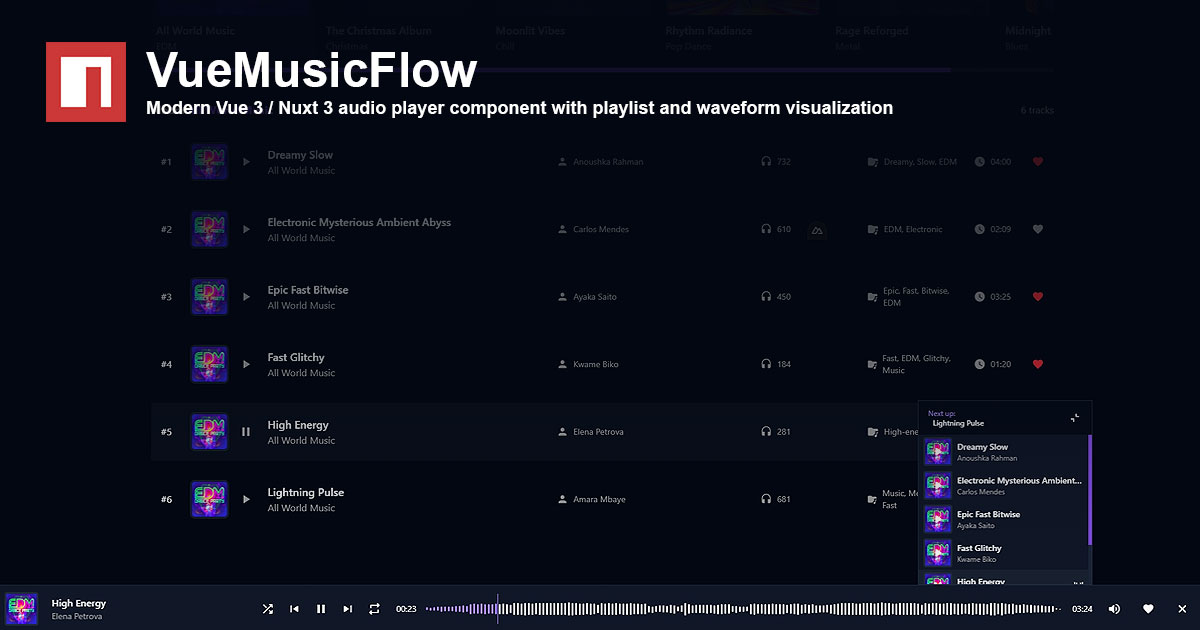
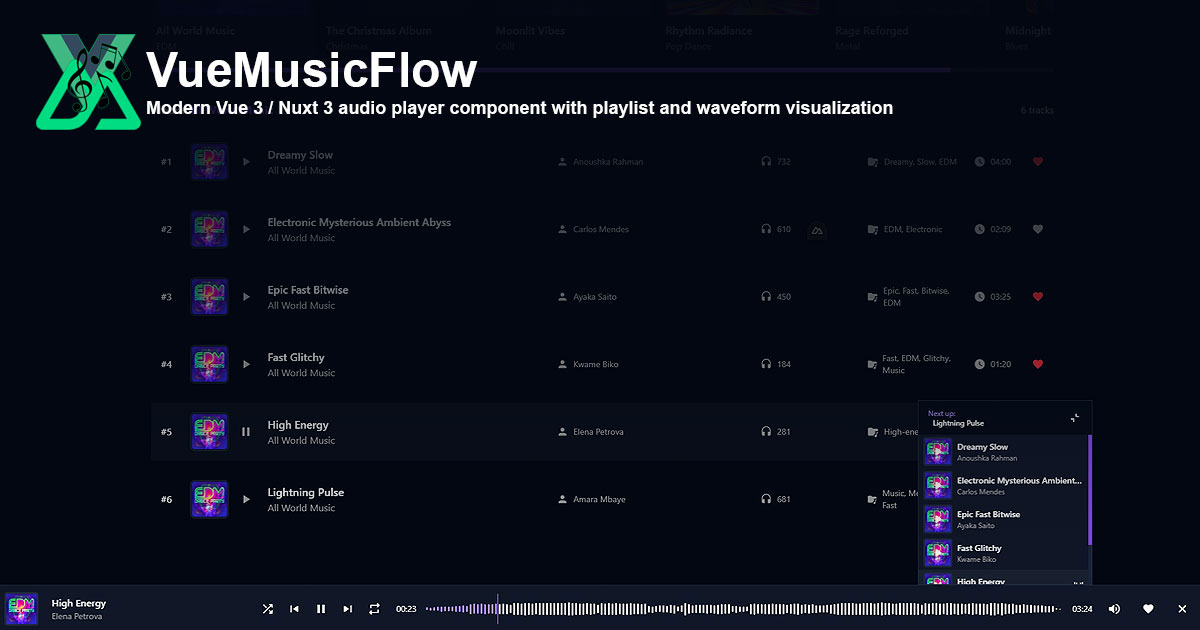
feat: update asset URLs and add new images
Updated asset URLs across the application to include cache-busting timestamps. Changed content for existing assets and added new image files to support updated branding. This ensures consistency and better asset management.

Changed region(s): [[0.0308, 0.0302, 0.1233, 0.2111]]

diff --git a/app/app.vue b/app/app.vue
@@ -18,25 +18,42 @@
         <Meta name="twitter:description" :content="description" />
         <Meta
           property="og:image"
-          :content="`https://ik.imagekit.io/ltdassets/public/social.jpg`"
+          :content="`https://ik.imagekit.io/ltdassets/public/social.jpg?updatedAt=1741803287465`"
         />
         <Meta
           name="twitter:image"
-          :content="`https://ik.imagekit.io/ltdassets/public/twitter.jpg`"
+          :content="`https://ik.imagekit.io/ltdassets/public/twitter.jpg?updatedAt=1741803407933`"
         />
         <Meta name="twitter:card" content="summary_large_image" />
         <Meta name="twitter:site" content="@nemanjadragun" />
         <Meta name="twitter:creator" content="@nemanjadragun" />
-        <Meta property="og:site_name" content="https://ik.imagekit.io/ltdassets/public/favicon.png" />
-        <Meta name="twitter:site" content="https://ik.imagekit.io/ltdassets/public/favicon.png" />
+        <Meta
+          property="og:site_name"
+          content="https://ik.imagekit.io/ltdassets/public/favicon.png?updatedAt=1741803436602"
+        />
+        <Meta
+          name="twitter:site"
+          content="https://ik.imagekit.io/ltdassets/public/favicon.png?updatedAt=1741803436602"
+        />
         <Meta name="url" :content="`${nuxtApp?.$app_origin}${$route?.path}`" />
         <Meta
           property="og:url"
           :content="`${nuxtApp?.$app_origin}${$route?.path}`"
         />
-        <Link rel="icon" type="image/x-icon" href="https://ik.imagekit.io/ltdassets/public/favicon.ico" />
-        <Link rel="apple-touch-icon" type="image/png" href="https://ik.imagekit.io/ltdassets/public/favicon.png" />
-        <Link rel="apple-touch-startup-image" href="https://ik.imagekit.io/ltdassets/public/favicon.ico" />
+        <Link
+          rel="icon"
+          type="image/x-icon"
+          href="https://ik.imagekit.io/ltdassets/public/favicon.ico?updatedAt=1741803477620"
+        />
+        <Link
+          rel="apple-touch-icon"
+          type="image/png"
+          href="https://ik.imagekit.io/ltdassets/public/favicon.png?updatedAt=1741803436602"
+        />
+        <Link
+          rel="apple-touch-startup-image"
+          href="https://ik.imagekit.io/ltdassets/public/favicon.ico?updatedAt=1741803477620"
+        />
       </Head>
     </Html>
     <NuxtPage />

diff --git a/app/layouts/default.vue b/app/layouts/default.vue
@@ -10,7 +10,7 @@
       <div class="flex items-center gap-4 mb-8">
         <NuxtImg
           class="size-8"
-          src="https://ik.imagekit.io/ltdassets/public/images/logo.png"
+          src="https://ik.imagekit.io/ltdassets/public/images/logo.png?updatedAt=1741803571435"
           alt="Vue Music Flow - NPM Package"
         />
         <h1 class="font-semibold text-xl">
